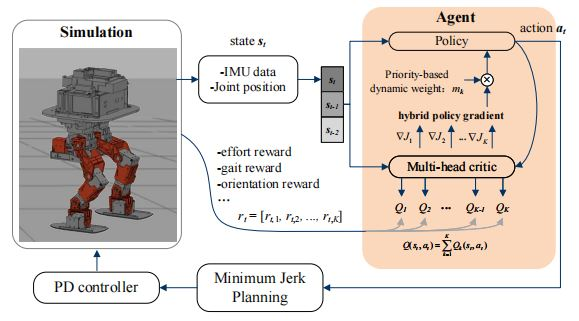
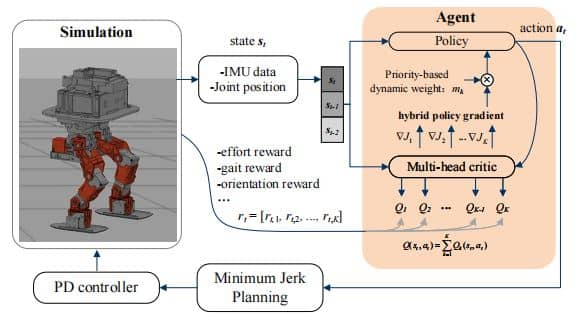
20221204测试publications图片显示问题5

diff --git a/index.html b/index.html
@@ -230,7 +230,7 @@
             			    <div class="row">
             				   <div class="col-sm-6 col-md-5">
             					 <div class="about-img">
-            					   <img src="img/TNNLS.jpg" width="100%" height="80%"   class="img_style" alt="">
+            					   <img src="img/TNNLS.jpg" width="100%" height="100%"   class="img_style" alt="">
             					 </div>
             				   </div>
             				   <div class="col-sm-6 col-md-7"> 
